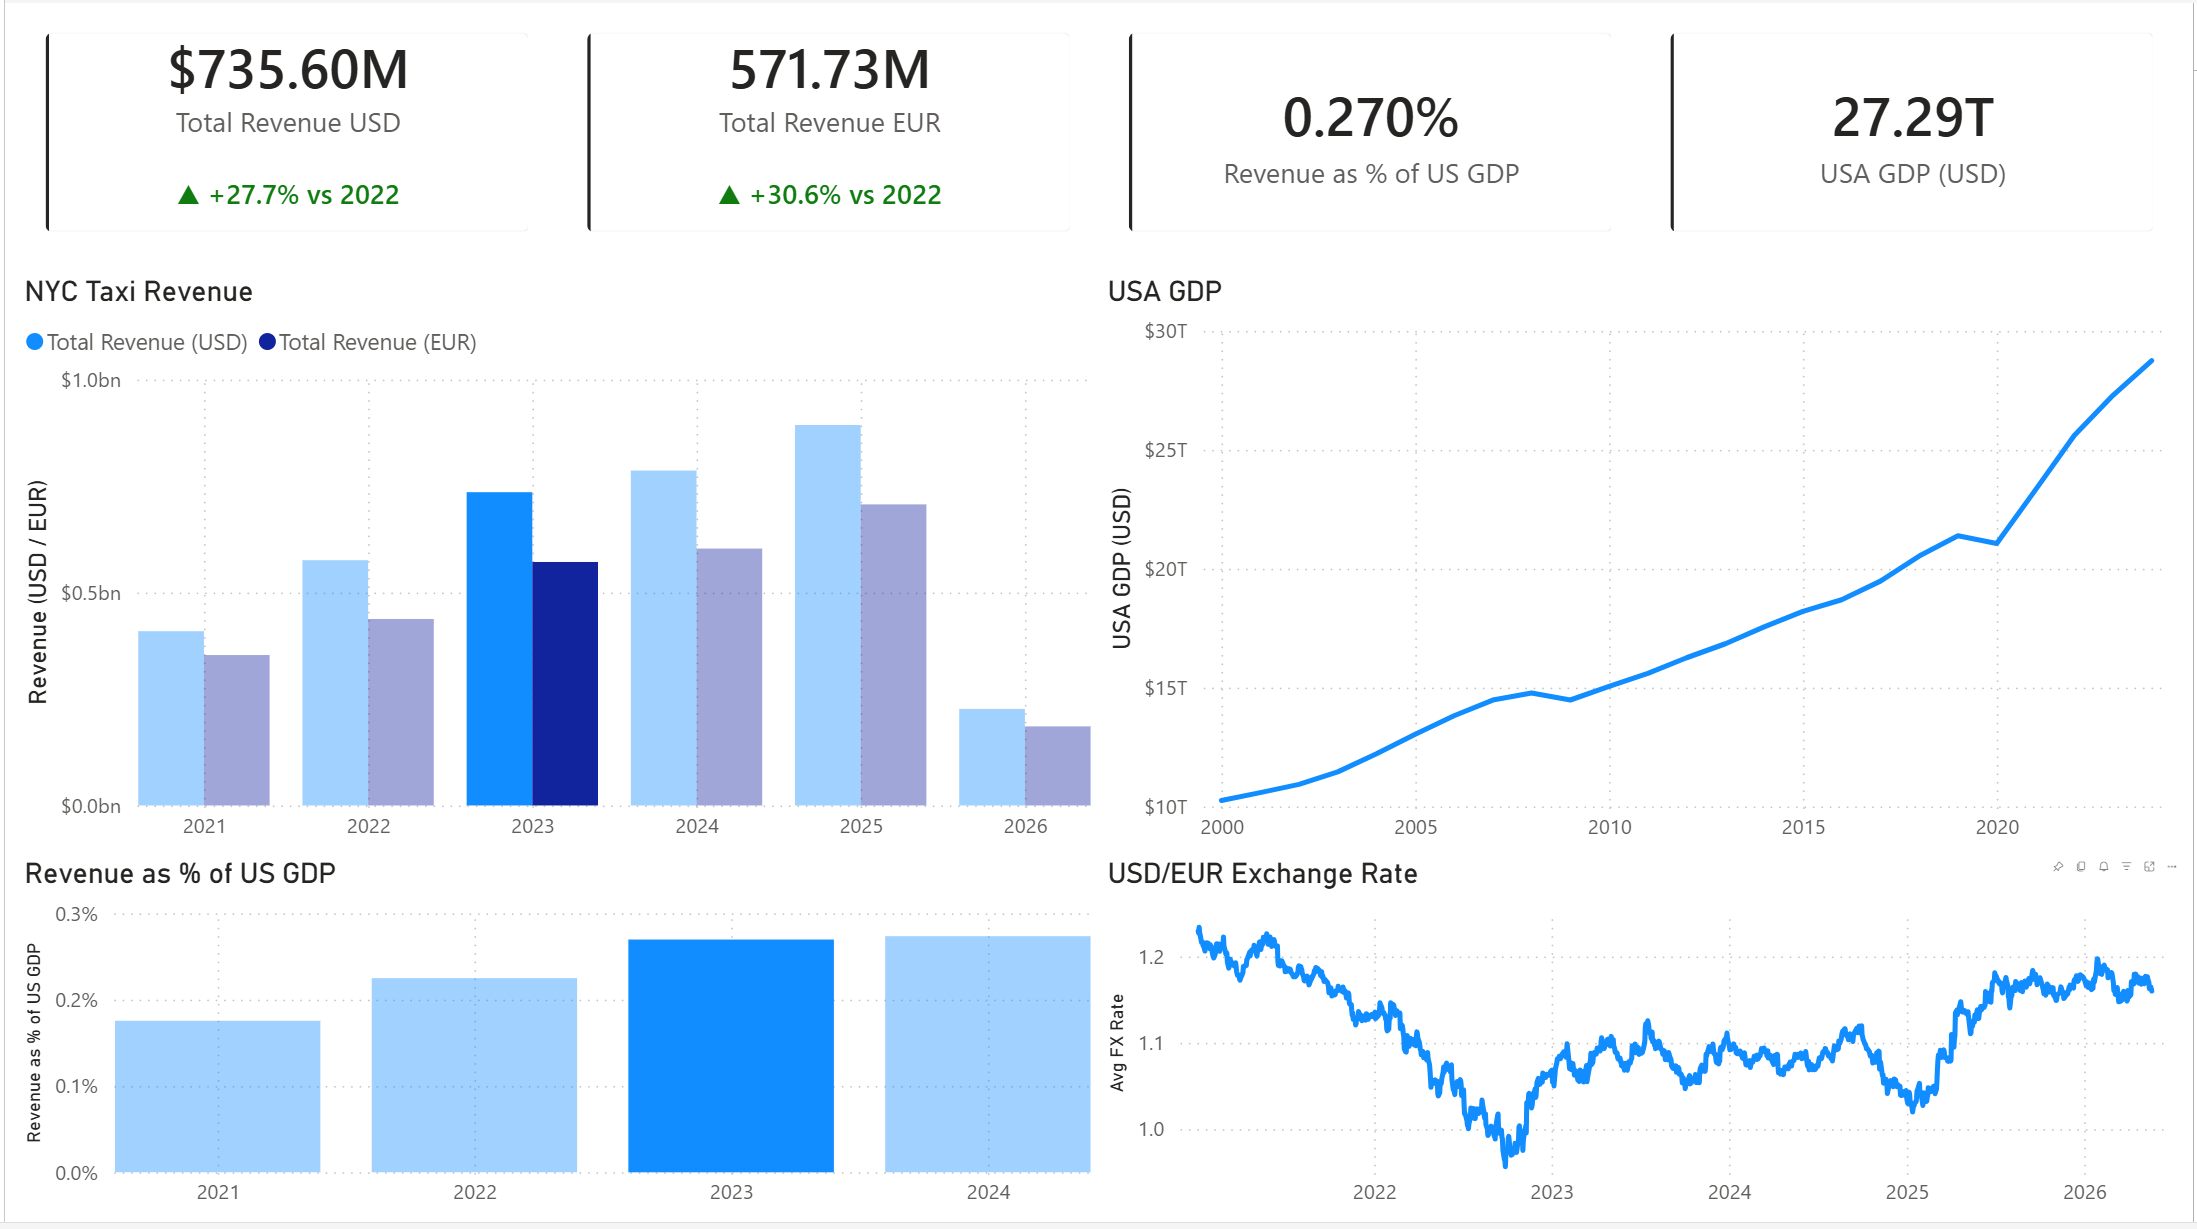
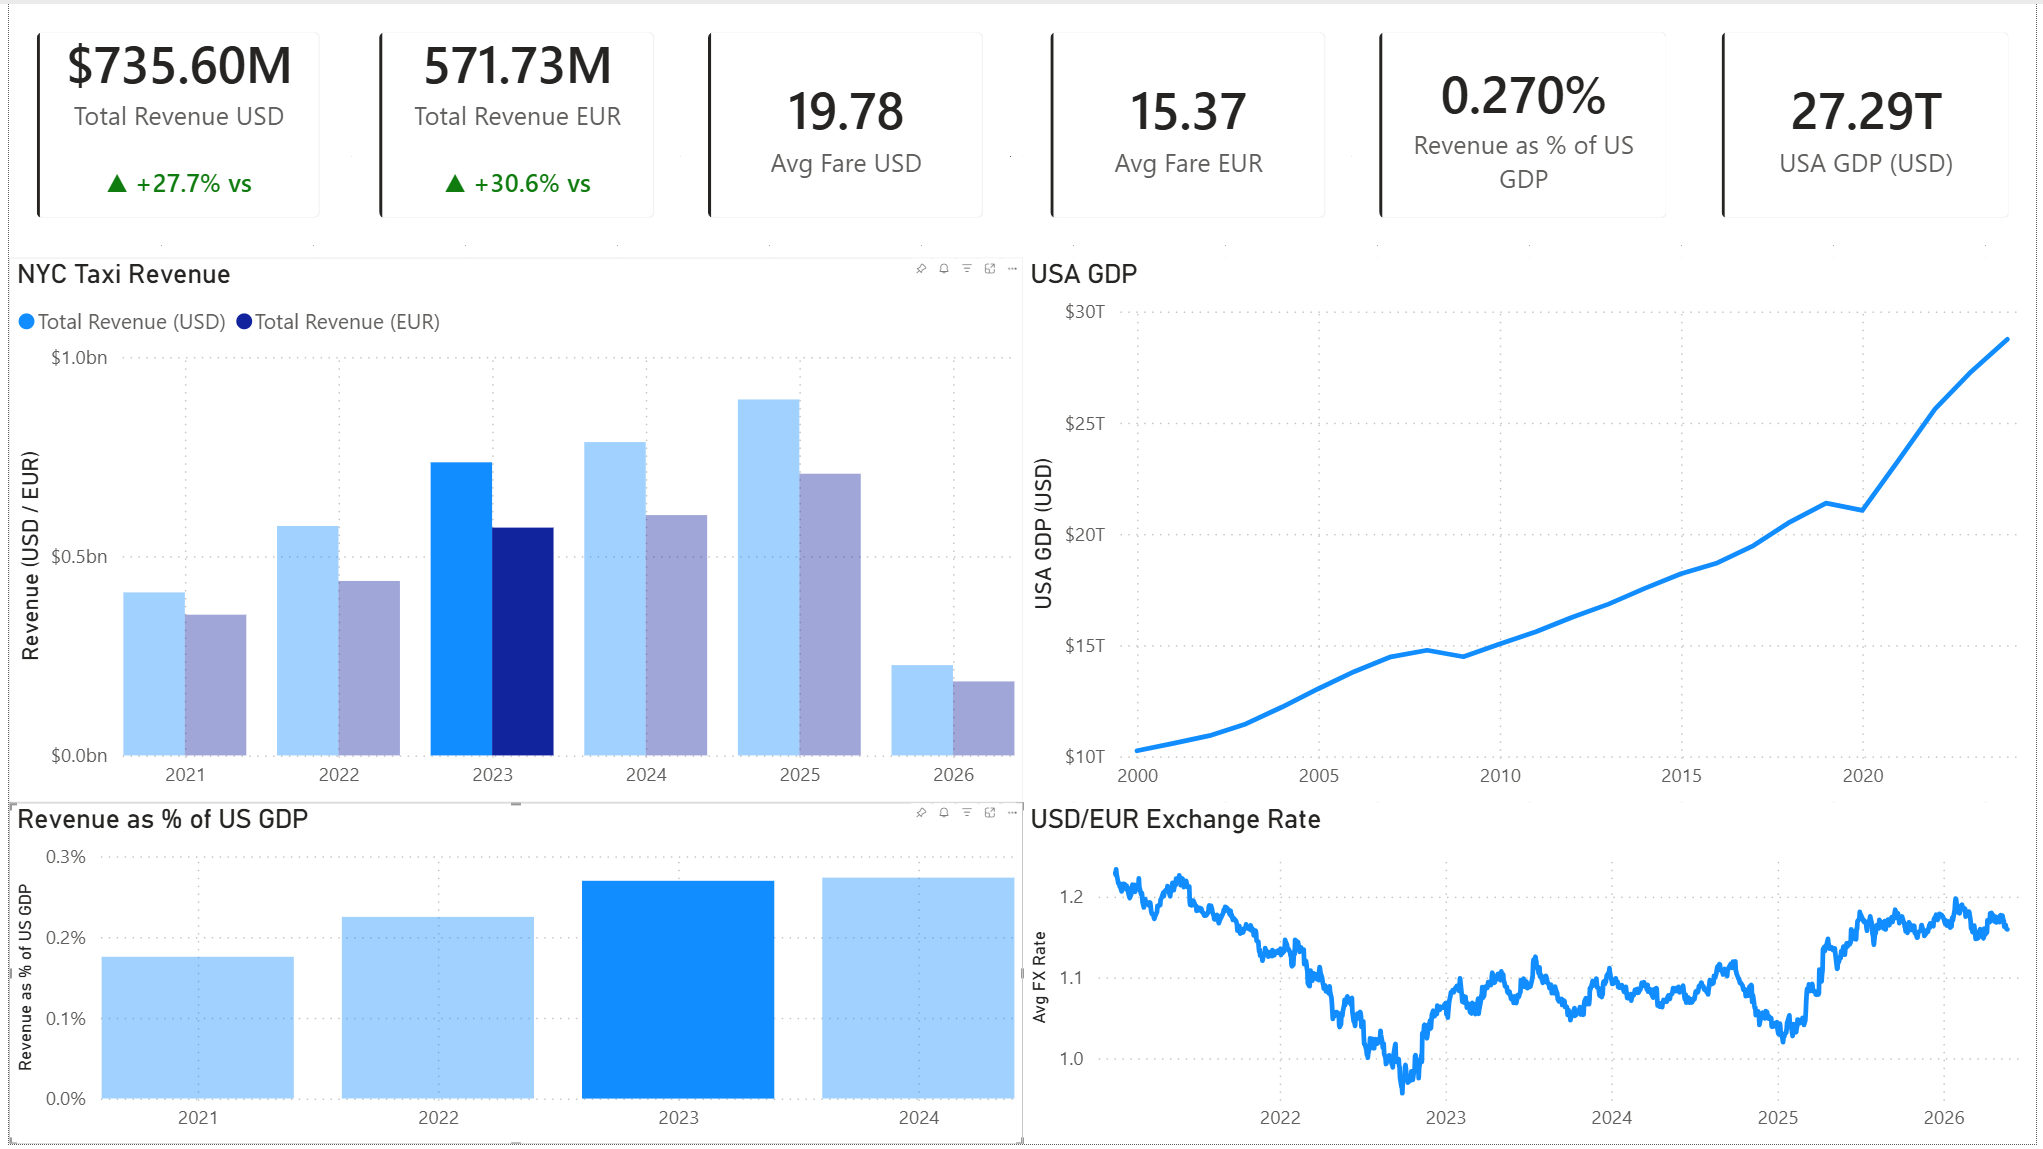
docs: document Avg Fare USD/EUR cards on Economic Impact page

diff --git a/docs/architecture.md b/docs/architecture.md
@@ -89,7 +89,7 @@
   - `FactTaxiDaily[zone_key]` → `DimZone[zone_key]` (Many:1, active)
   - `FactAirQualityDaily[date_key]` → `DimDate[date_key]` (Many:1, active)
   - `DimGDP` — no relationship (used as standalone context table)
-- **DAX measures in FactTaxiDaily:** Total Trips, Total Revenue USD, Total Revenue EUR, Avg Fare USD, Avg Trip Distance (mi), Avg Trip Duration (min)
+- **DAX measures in FactTaxiDaily:** Total Trips, Total Revenue USD, Total Revenue EUR, Avg Fare USD, Avg Fare EUR, Avg Trip Distance (mi), Avg Trip Duration (min)
 - **DAX measures in FactAirQualityDaily:** Avg PM2.5, Avg NO2, Avg O3
 - **DAX measures in DimGDP:** USA GDP (USD) — `CALCULATE(MAX(DimGDP[gdp_usd]), DimGDP[country_code] = "US")`
 - **Row-Level Security (RLS):** 5 static roles filtering `DimZone[service_zone]`, mapped to real NYC TLC licensing zones. Filter propagates to `FactTaxiDaily` via the existing `zone_key` relationship (single-direction). `FactAirQualityDaily` is not filtered (no zone relationship — air quality is station-based). All roles use `modelPermission: read`; workspace permissions (Admin/Member/Contributor bypass RLS — only Viewer respects it). Role-to-user assignment is done in Power BI Service after deployment.
@@ -109,7 +109,7 @@
   - **Mobility** ([screenshot](img/powerbi_mobility.png)) — KPI cards with YoY change indicators (`▲ +X.X% vs prev year`, green/red conditional font color): Total Trips, Total Revenue USD, Avg Fare USD; year tile slicer, daily trips trend (line chart with range slider), top 10 pickup zones by trip count
   - **Air Quality** ([screenshot](img/powerbi_air_quality.png)) — KPI cards (Avg NO2, Avg O3, Avg PM2.5) with conditional fill color based on WHO 24h limits (green/yellow/red), year tile slicer, Azure Maps bubble visual (station coordinates, bubble size + gradient color by Avg PM2.5), combined PM2.5+NO2+O3 daily trend with WHO threshold reference lines (PM2.5=15, NO2=25, O3=100) and zoom slider, top 10 stations by Avg PM2.5
   - **Mobility & Air Quality Correlation** ([screenshot](img/powerbi_correlation.png)) — KPI cards: Total Trips, plus 3 Pearson correlation coefficient cards (`r vs PM2.5`, `r vs NO2`, `r vs O3`) computed via DAX `SUMMARIZE` + `SUMX` over `DimDate[date_key]`; year tile slicer; combo chart with Total Trips bars + PM2.5/NO2/O3 lines (monthly aggregation)
-  - **Economic Impact** ([screenshot](img/powerbi_economic_impact.png)) — KPI cards with YoY indicators (Total Revenue USD, Total Revenue EUR), plus `% of US GDP` card and `USA GDP (USD)` card (latter year-aware via `COALESCE(SELECTEDVALUE(DimGDP[year]), SELECTEDVALUE(DimDate[year]))`); year tile slicer; clustered column chart (revenue USD vs EUR by year), line chart (USA GDP by year, 2000–2024), `Revenue as % of US GDP` bar chart by year (2021–2024 — World Bank GDP ends 2024), USD/EUR exchange rate line chart (filtered to 2021–2026 to match taxi window)
+  - **Economic Impact** ([screenshot](img/powerbi_economic_impact.png)) — KPI cards with YoY indicators (Total Revenue USD, Total Revenue EUR), `Avg Fare USD` and `Avg Fare EUR` cards (trip-weighted via `DIVIDE([Total Revenue], [Total Trips])` — directly answers spec Q3 "average revenue per trip in USD vs EUR"), plus `% of US GDP` card and `USA GDP (USD)` card (latter year-aware via `COALESCE(SELECTEDVALUE(DimGDP[year]), SELECTEDVALUE(DimDate[year]))`); year tile slicer; clustered column chart (revenue USD vs EUR by year), line chart (USA GDP by year, 2000–2024), `Revenue as % of US GDP` bar chart by year (2021–2024 — World Bank GDP ends 2024), USD/EUR exchange rate line chart (filtered to 2021–2026 to match taxi window)
 
 ### Notebooks
 All notebooks live in `fabric/` as Fabric Notebook items synced via Git integration. There is no separate `notebooks/` directory.

diff --git a/docs/how_to_run.md b/docs/how_to_run.md
@@ -149,7 +149,7 @@ Expected tables in gold_warehouse:
    - `FactTaxiDaily[fx_key]` → `DimFX[fx_key]` (Many:1)
    - `FactTaxiDaily[zone_key]` → `DimZone[zone_key]` (Many:1)
    - `FactAirQualityDaily[date_key]` → `DimDate[date_key]` (Many:1)
-4. Add DAX measures to **FactTaxiDaily**: `Total Trips`, `Total Revenue USD`, `Total Revenue EUR`, `Avg Fare USD`, `Avg Trip Distance (mi)`, `Avg Trip Duration (min)`
+4. Add DAX measures to **FactTaxiDaily**: `Total Trips`, `Total Revenue USD`, `Total Revenue EUR`, `Avg Fare USD`, `Avg Fare EUR`, `Avg Trip Distance (mi)`, `Avg Trip Duration (min)`
 5. Add DAX measures to **FactAirQualityDaily**: `Avg PM2.5`, `Avg NO2`, `Avg O3`
 6. Sync back to Git: workspace → Source control → Commit
 
@@ -159,7 +159,7 @@ Expected tables in gold_warehouse:
 2. Build **Mobility** page: KPI cards (Total Trips, Total Revenue USD, Avg Fare USD, Avg Trip Distance (mi)), year tile slicer, trips/day line chart, top 10 pickup zones bar chart
 3. Build **Air Quality** page: KPI cards (Avg NO2, Avg O3, Avg PM2.5) with conditional fill color based on WHO 24h limits (Rules-based: green < safe / yellow = approaching / red > limit), year tile slicer, **Azure Maps** bubble visual (latitude/longitude from `FactAirQualityDaily`, Size & gradient color by Avg PM2.5, click filters trend chart and KPI cards), combined PM2.5+NO2+O3 daily line chart with WHO threshold Constant Lines (PM2.5=15 µg/m³, NO2=25, O3=100) and zoom slider, top 10 stations by Avg PM2.5 bar chart (does not respond to map clicks)
 4. Build **Correlation** page: KPI cards (Total Trips, Avg PM2.5, Avg NO2) — PM2.5/NO2 cards share conditional fill rules with Air Quality page (use Format Painter to copy formatting), bar+line combo chart (Total Trips bars + Avg PM2.5 + Avg NO2 lines by month), year tile slicer (multi-select via Ctrl+click)
-5. Build **Economic Impact** page: KPI cards (Total Revenue USD, Total Revenue EUR, USA GDP), clustered column chart (revenue USD vs EUR by year), line chart (USA GDP by year from DimGDP), line chart (USD/EUR exchange rate from DimFX)
+5. Build **Economic Impact** page: KPI cards (Total Revenue USD, Total Revenue EUR, Avg Fare USD, Avg Fare EUR, Revenue as % of US GDP, USA GDP), clustered column chart (revenue USD vs EUR by year), line chart (USA GDP by year from DimGDP), bar chart (Revenue as % of US GDP by year), line chart (USD/EUR exchange rate from DimFX)
 
 ---
 

diff --git a/fabric/README.md b/fabric/README.md
@@ -83,7 +83,7 @@ Star schema in `gold_warehouse` (T-SQL / SQL analytics endpoint). Written via `s
 - Storage mode: Direct Lake on SQL (`gold_warehouse`)
 - Relationships: FactTaxiDaily → DimDate, DimZone, DimFX · FactAirQualityDaily → DimDate
 - DAX measures:
-  - **FactTaxiDaily:** Total Trips, Total Revenue USD/EUR, Avg Fare USD, Avg Trip Duration (min), Revenue as % of US GDP, 3 Pearson correlation coefficients (Trips vs PM2.5/NO2/O3), 8 YoY measures (`<X> YoY %` + `<X> YoY Label` for Total Trips, Total Revenue USD, Total Revenue EUR, Avg Fare USD)
+  - **FactTaxiDaily:** Total Trips, Total Revenue USD/EUR, Avg Fare USD, Avg Fare EUR, Avg Trip Duration (min), Revenue as % of US GDP, 3 Pearson correlation coefficients (Trips vs PM2.5/NO2/O3), 8 YoY measures (`<X> YoY %` + `<X> YoY Label` for Total Trips, Total Revenue USD, Total Revenue EUR, Avg Fare USD)
   - **FactAirQualityDaily:** Avg PM2.5, Avg NO2, Avg O3
   - **DimGDP:** USA GDP (USD) — year-aware via `COALESCE(SELECTEDVALUE(DimGDP[year]), SELECTEDVALUE(DimDate[year]))`
   - **DimFX:** Avg FX Rate
@@ -98,7 +98,7 @@ Screenshots in `docs/img/powerbi_{mobility,air_quality,correlation,economic_impa
 | Mobility | KPI cards with YoY indicators (Total Trips, Revenue USD, Avg Fare), year tile slicer, trips/day trend, top 10 pickup zones |
 | Air Quality | KPI cards (Avg NO2/O3/PM2.5) with WHO-based conditional fill color, year tile slicer, Azure Maps bubble visual (Avg PM2.5 gradient), PM2.5+NO2+O3 daily trend with WHO threshold lines and zoom slider, top 10 stations by Avg PM2.5 |
 | Mobility & Air Quality Correlation | KPI cards: Total Trips + 3 Pearson r cards (`r vs PM2.5/NO2/O3`); combo chart (Trips bars + PM2.5/NO2/O3 lines, monthly) |
-| Economic Impact | KPI cards with YoY indicators (Revenue USD, Revenue EUR) + `% of US GDP` + year-aware `USA GDP (USD)`; revenue by year (USD vs EUR bars), USA GDP line (2000–2024), Revenue as % of US GDP bars (2021–2024), USD/EUR exchange rate (2021–2026) |
+| Economic Impact | KPI cards with YoY indicators (Revenue USD, Revenue EUR) + Avg Fare USD + Avg Fare EUR (trip-weighted, answer spec Q3) + `% of US GDP` + year-aware `USA GDP (USD)`; revenue by year (USD vs EUR bars), USA GDP line (2000–2024), Revenue as % of US GDP bars (2021–2024), USD/EUR exchange rate (2021–2026) |
 
 ---
 